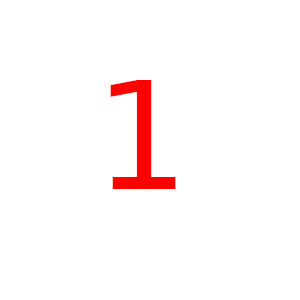
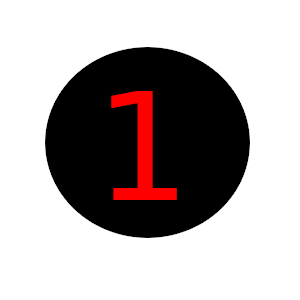
worked on and got a solution for inventory items, it is a bandaid solution though

diff --git a/Visuals/VisualDemo.py b/Visuals/VisualDemo.py
@@ -115,7 +115,7 @@ def whichRoom(): ## when implemented in game, will take a parameter to switch ro
     elif userInput == "inventory":
       displayInventory()
     elif userInput == "exit":
-      GAMERUNNING = False ## closes request string, but does not close game window
+      GAMERUNNING = False ## closes request string, but does not close game windo
     else:
       showInformation("This input is not recognized, please try again.")
       #whiteText("This is an invalid Input, please try again")
@@ -280,31 +280,47 @@ def displayInventory():
 ### attempting to generalize for all items in a list. has issues, only takes in first element of list.
 ### can easily be hard coded in a list to draw on screen by calling drawInventory() with the item's picture
 ###
-  inventory = ['one','two','three'] ## items in inventory for purposes of demo
+  inventory = ['one','two','three'] ## items in inventory for purposes of demo, not actually used in demo
+  
   if len(inventory) == 0: ## if inventory is empty, will handle case
+    ## should be handled by inventory function in main game already
     showInformation("You do not have any items in your inventory")
     whichRoom()
   else:
     invInput = requestString("Which item do you want to see?\n" + str(inventory)+"\nType leave to leave menu")
-    #repaint(CANVAS)#clears screen so if multiple items are looked at on screen, it will not overlap
-    
-    if invInput == 'leave':
-       whichRoom()
-        
-    for item in inventory:
-      if invInput != item:
-        showInformation("You do not have that item.")
-        break
-      elif invInput == item:        
-        itemPic = makePicture(getMediaPath() + item + ".png") #takes in item image
-        posX = getWidth(CANVAS)/2-getWidth(itemPic)/2
-        posY = getHeight(CANVAS)/2-getHeight(itemPic)/2
-        drawInventory(itemPic,posX,posY)
-        break    
  
+    if invInput == 'leave':
+       whichRoom()       
+   ## be sure to check if item is in inventory through main inventory function in main game.
+   
+    if invInput == 'one':        
+      itemPic = makePicture(getMediaPath() + "one.png")
+      text = "This should display '1's description from the dictionary"
+      whiteText(text)
+      drawInventory(itemPic)
+      whichRoom() ## return to idle input state out of inventory
+    elif invInput == 'two':        
+      itemPic = makePicture(getMediaPath() + "two.png")
+      text = "This should display '2's description from the dictionary"
+      whiteText(text)
+      drawInventory(itemPic)
+      whichRoom()## return to idle input state out of inventory
+    elif invInput == 'three':        
+      itemPic = makePicture(getMediaPath() + "three.png")
+      text = "This should display '3's description from the dictionary"
+      whiteText(text)
+      drawInventory(itemPic)
+      whichRoom()## return to idle input state out of inventory
+    else:
+      showInformation("You do not have that item.")        
     
-def drawInventory(itemPic,width,height):
-  inventory = pyCopyIgnoreColor(itemPic,CANVAS,width,height,white) #white was used for demo purposes
+def drawInventory(itemPic):
+  ## might need to clear image of last image if drawen
+  #for now, having images draw on top of eachother with a box frame the solution.
+  posX = getWidth(CANVAS)/2-getWidth(itemPic)/2
+  posY = getHeight(CANVAS)/2-getHeight(itemPic)/2
+  inventory = pyCopyIgnoreColor(itemPic,CANVAS,posX,posY,white) #white was used for demo purposes
+  
   repaint(CANVAS)
 
 
